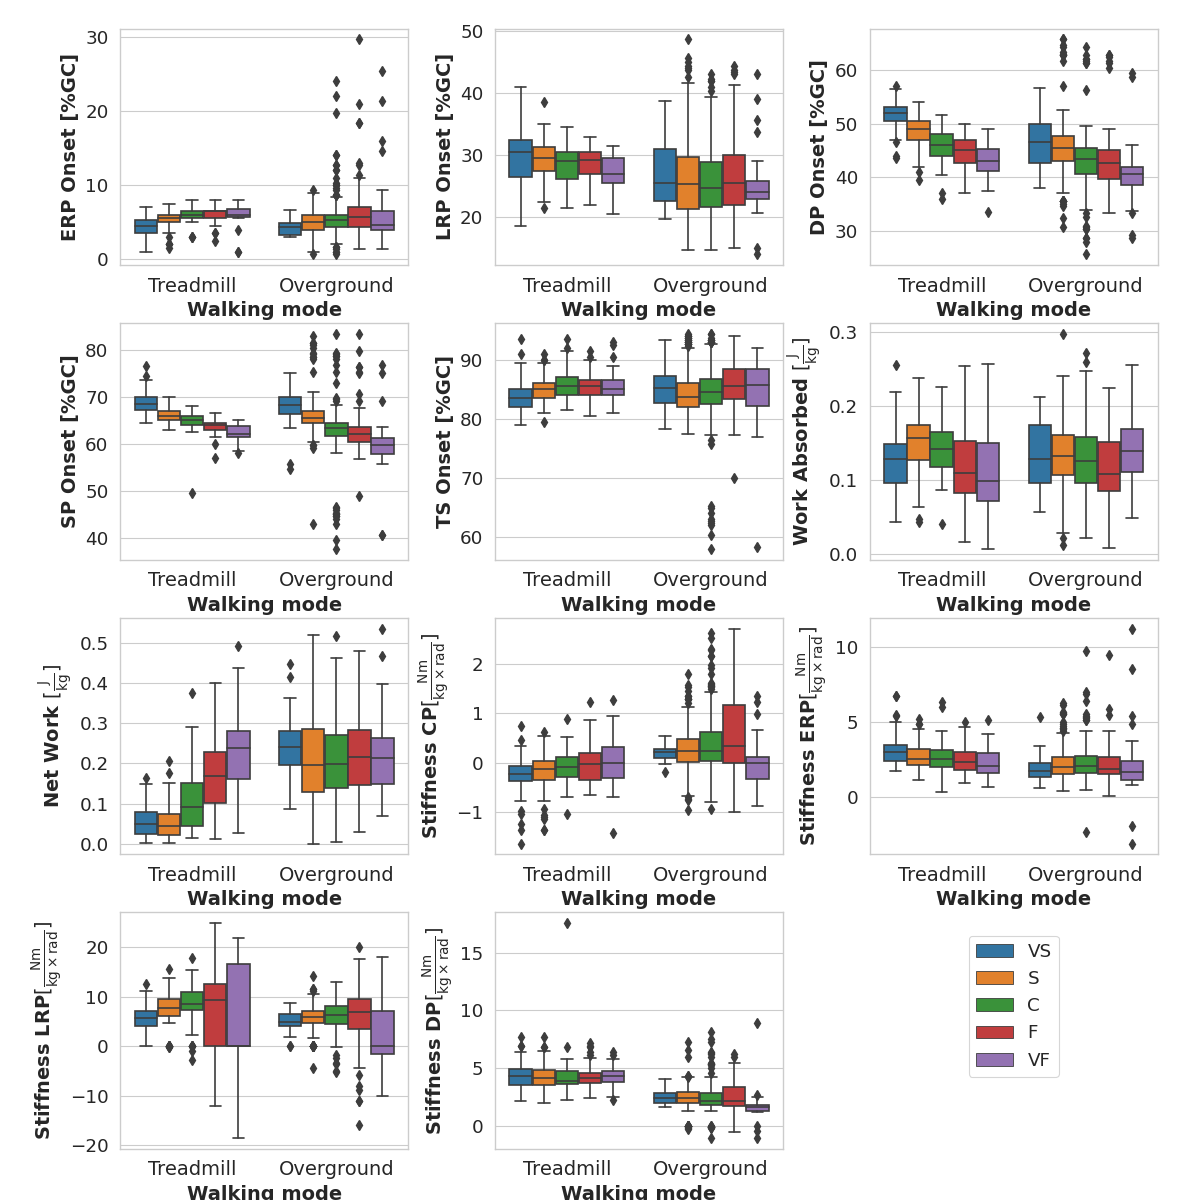
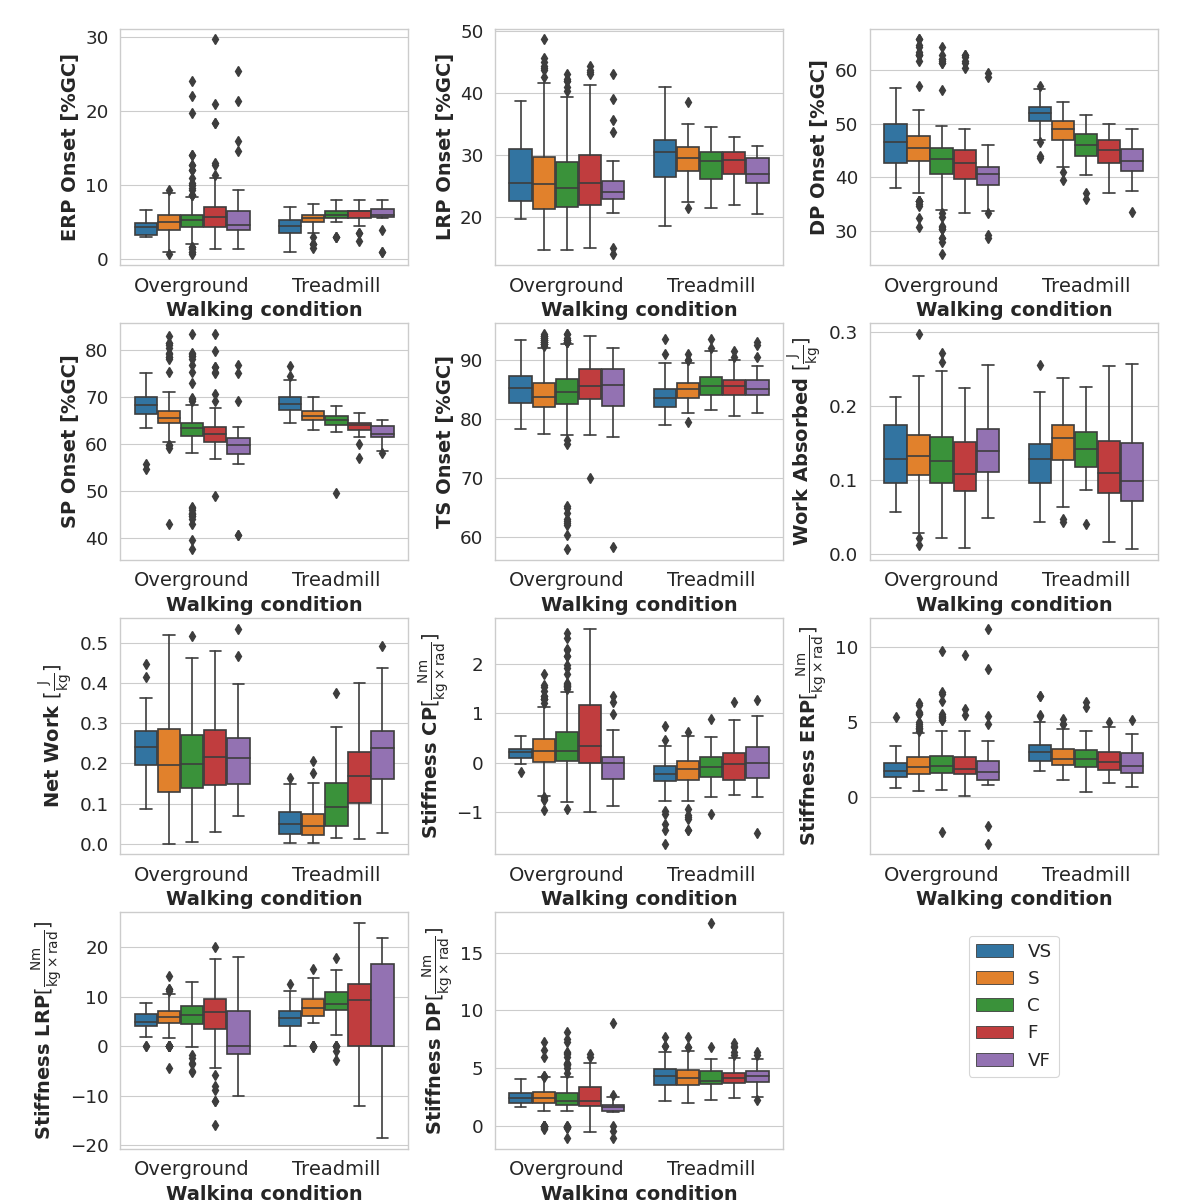
boxplot is with name walking condition

diff --git a/concat_paper_stats.py b/concat_paper_stats.py
@@ -375,7 +375,8 @@ if __plots:
     # Plotting the overground vs treadmill boxplots
     mode_class = obt_box_plot(dep_vars, formal_labels,
                               nrows=4, ncols=3, labels_take=np.r_[:11])
-    mode_class.plot_boxplot("Mode", dataset=concat_QS, xlabel="Walking mode")
+    mode_class.plot_boxplot("Mode", dataset=concat_QS, xlabel="Walking condition",
+                            order = ["Overground", "Treadmill"])
     mode_class.save_fig("Figure5BoxplotWalkingEnvironment.png")
 
     # Plotting the Agegroup boxplots
